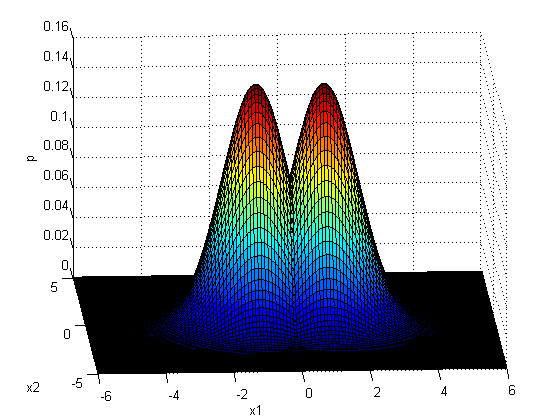
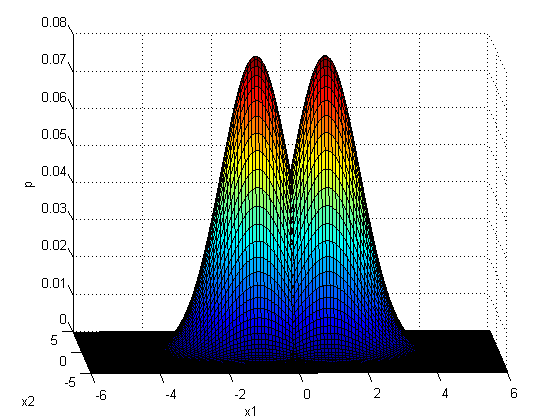
CH2_6

diff --git a/CH2_6.m b/CH2_6.m
@@ -18,12 +18,12 @@ function [error, Bbound, Cbound] = CH2_6(u1, sigma1, u2, sigma2, P1, P2)
 % Gauss distribution
 [x1_1, x1_2] = meshgrid(linspace(-4, 6, 100)', linspace(-5, 5, 100)');
 x1 = [x1_1(:) x1_2(:)];
-p1 = mvnpdf(x1, u1', sigma1);
+p1 = P1*mvnpdf(x1, u1', sigma1);
 surf(x1_1, x1_2, reshape(p1, 100, 100));
 hold on;
 [x2_1, x2_2] = meshgrid(linspace(-6,4,100)', linspace(-5,5,100)');
 x2 = [x2_1(:) x2_2(:)];
-p2 = mvnpdf(x2, u2', sigma2);
+p2 = P2*mvnpdf(x2, u2', sigma2);
 surf(x2_1, x2_2, reshape(p2, 100, 100));
 xlabel('x1'), ylabel('x2'), zlabel('p');
 % Obviously, surf x1 = 0 is the Bayes decision boundary.
